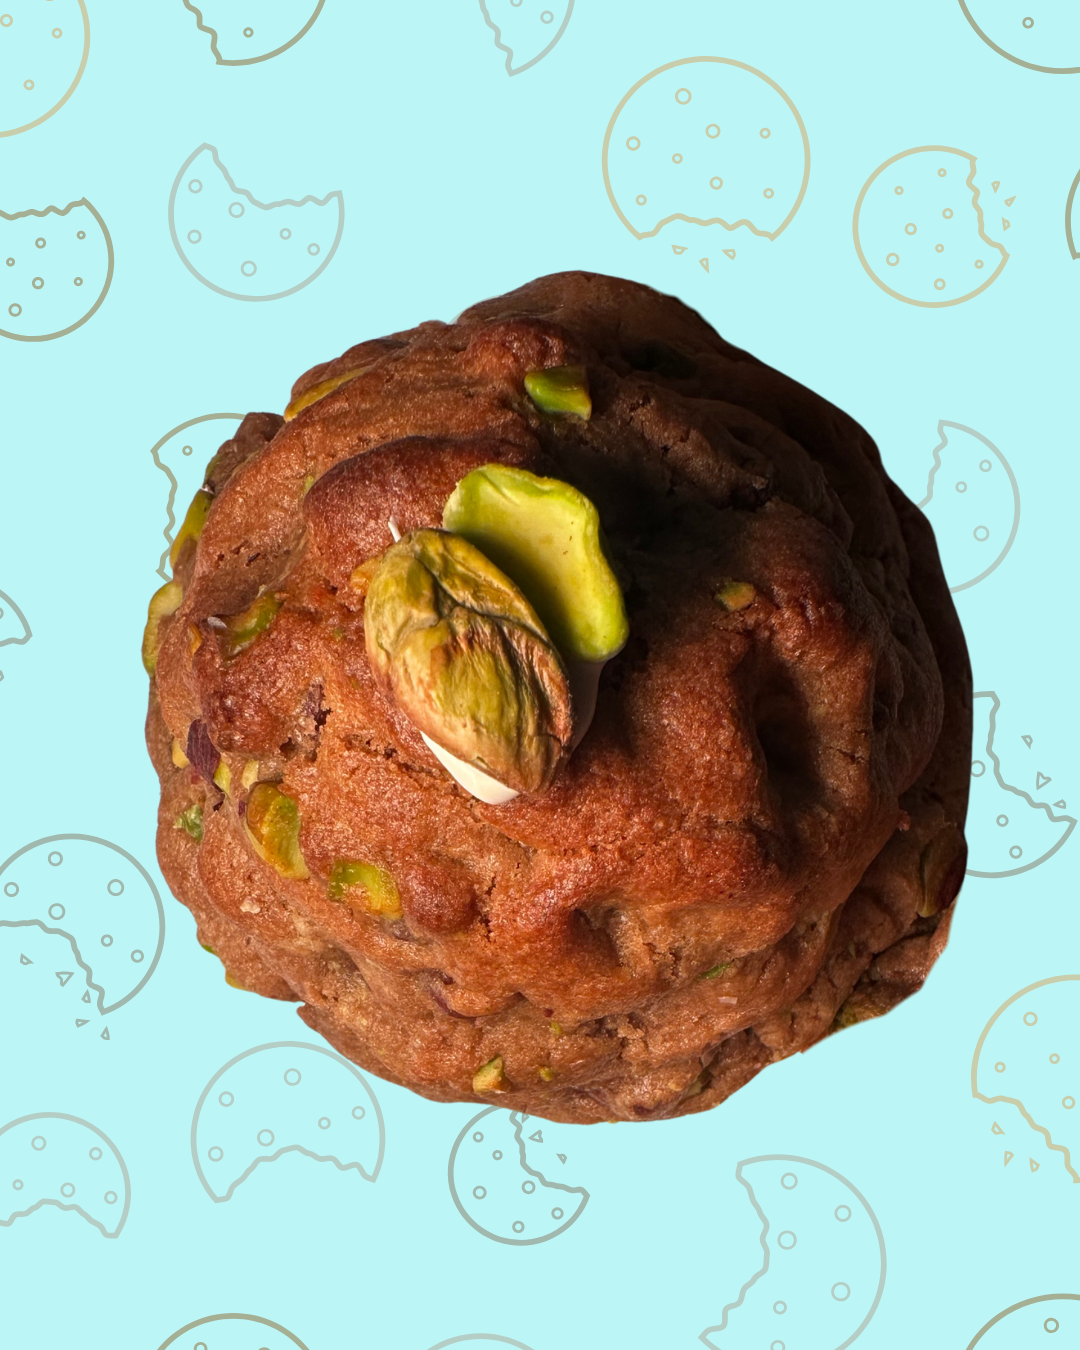
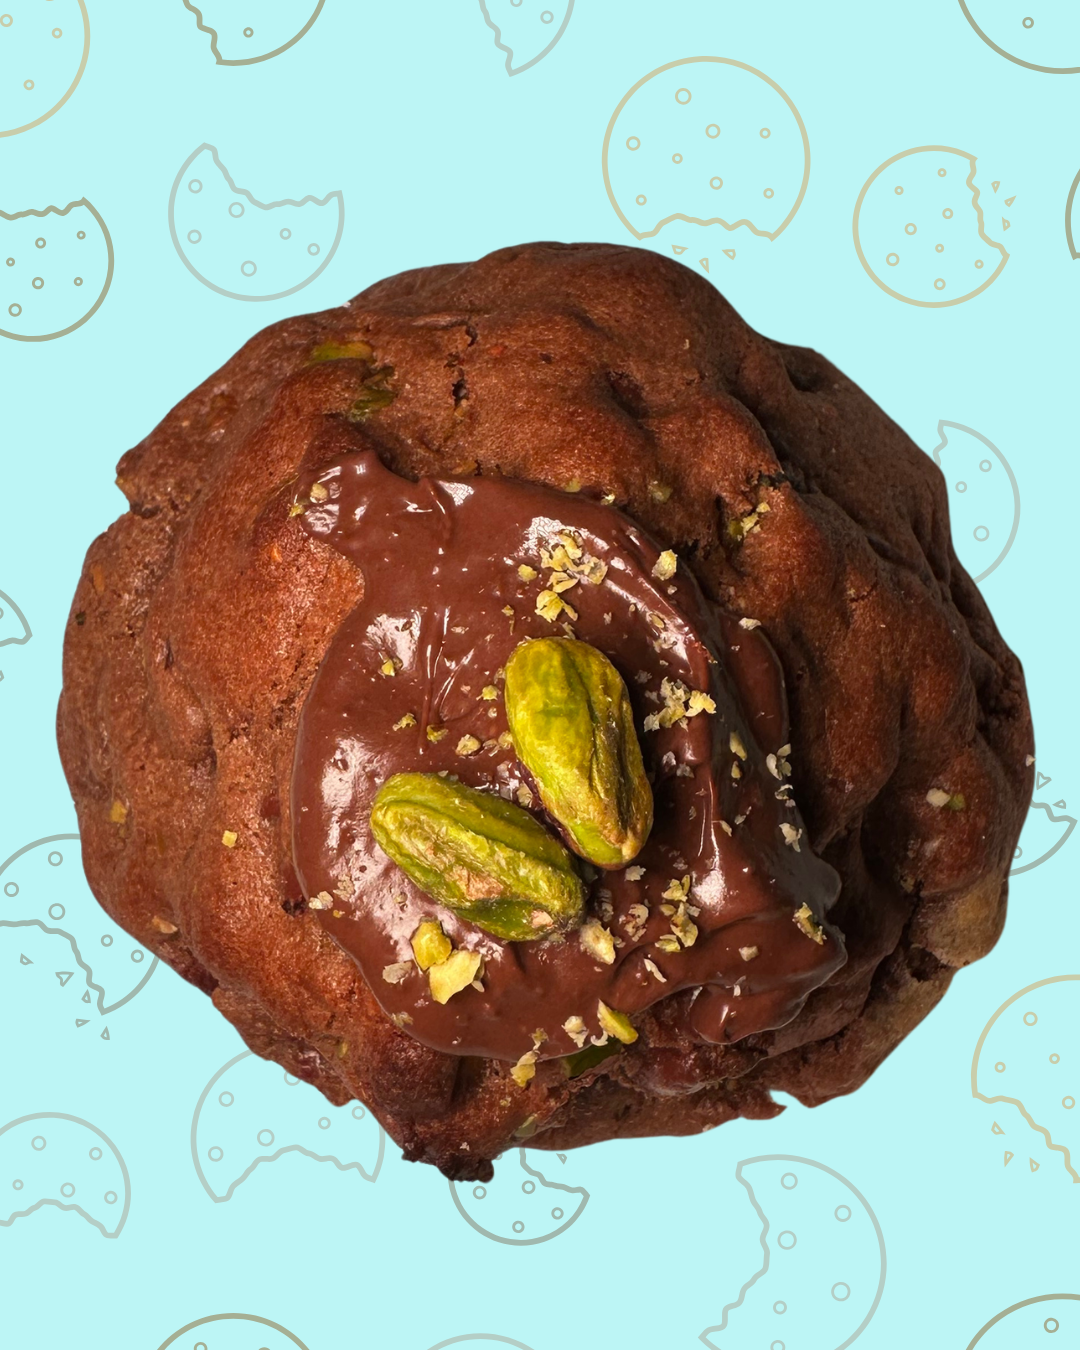
June Update
Added the June cookie menu and added the seasoned cookie images for some of the cookies from the May Update

diff --git a/products.js b/products.js
@@ -24,7 +24,7 @@
         new: true // Controlls if the item gets displayed in the Home Page's product carrousel
     },
     */
-const CART_VERSION = "v1.1.2";
+const CART_VERSION = "v1.1.3";
 
 // Constant containing all of the product details
 const productData = {
@@ -72,52 +72,38 @@ const productData = {
 
 
     //----------- Cookies -------------
-    "strawberry-samba_cookie":{
-        title: "Strawberry Samba Cookie",
+    "fudge-brownie_cookie":{
+        title: "Fudge Brownie Cookie",
         price: "$8.00",
-        info: "Vanilla cookie with chocolate chips, mixed with samba bits, filled with strawberry spread, topped with a strawberry spread dollip",
+        info: "Vanilla cookie with chocolate chips, mixed with brownie bits, filled with a brownie and Nutella, topped with a brownie",
         ingredients: "General Ingredients: Flour, Sugar, Brown Sugar, Eggs, Butter, Baking Powder, Baking Soda, Corn Starch, Salt, Vanilla. Weight: 6oz+",
-        ongoingProductImg: "../images/cookies/strawberry-samba_cookie_bg_ongoing.png",
-        seasonedProductImg: "../images/cookies/strawberry-samba_cookie_bg_seasoned.png",
-        secondImg: "../images/cookies/strawberry-samba_cookie_bg.png",
-        ongoing: true,
+        ongoingProductImg: "../images/cookies/fudge-brownie_cookie_bg_ongoing.png",
+        seasonedProductImg: "../images/cookies/fudge-brownie_cookie_bg_seasoned.png",
+        secondImg: "../images/cookies/fudge-brownie_cookie_bg.png",
+        ongoing: true, // Controlls whether the item gets a price when the user clicks from the bakedGoods page and changes the background
         get mainImg() {
             return this.ongoing ? this.ongoingProductImg : this.seasonedProductImg;
         },
-        new: true
+        new: true // Controlls if the item gets displayed in the Home Page's product carrousel
     },
-    "strawberry-matcha_cookie":{
-        title: "Strawberry Matcha Cookie",
+    "chocolate-dulce-de-leche_cookie":{
+        title: "Chocolate Dulce de Leche Cookie",
         price: "$8.00",
-        info: "Ceremonial grade Matcha cookie with white chocolate chips, filled with strawberry cream, topped with white chocolate drizzle and dried strawberry shavings",
+        info: "Chocolate cookie with chocolate chips, filled with dulce de leche, topped with dulce de leche and chocolate bits",
         ingredients: "General Ingredients: Flour, Sugar, Brown Sugar, Eggs, Butter, Baking Powder, Baking Soda, Corn Starch, Salt, Vanilla. Weight: 6oz+",
-        ongoingProductImg: "../images/cookies/strawberry-matcha_cookie_bg_ongoing.png",
-        seasonedProductImg: "../images/cookies/strawberry-matcha_cookie_bg_seasoned.png",
-        secondImg: "../images/cookies/strawberry-matcha_cookie_bg.png",
-        ongoing: true,
+        ongoingProductImg: "../images/cookies/chocolate-dulce-de-leche_cookie_bg_ongoing.png",
+        seasonedProductImg: "../images/cookies/chocolate-dulce-de-leche_cookie_bg_seasoned.png",
+        secondImg: "../images/cookies/chocolate-dulce-de-leche_cookie_bg.png",
+        ongoing: true, // Controlls whether the item gets a price when the user clicks from the bakedGoods page and changes the background
         get mainImg() {
             return this.ongoing ? this.ongoingProductImg : this.seasonedProductImg;
         },
-        new: true
-    },
-    "chocolate-brigadeiro_cookie":{
-        title: "Chocolate Brigadeiro Cookie",
-        price: "$8.00",
-        info: "Vanilla cookie with chocolate chips, filled with chocolate brigadeiro, rolled in chocolate sprinkles",
-        ingredients: "General Ingredients: Flour, Sugar, Brown Sugar, Eggs, Butter, Baking Powder, Baking Soda, Corn Starch, Salt, Vanilla. Weight: 6oz+",
-        ongoingProductImg: "../images/cookies/chocolate-brigadeiro_cookie_bg_ongoing.png",
-        seasonedProductImg: "../images/cookies/chocolate-brigadeiro_cookie_bg_seasoned.png",
-        secondImg: "../images/cookies/chocolate-brigadeiro_cookie_bg.png",
-        ongoing: true,
-        get mainImg() {
-            return this.ongoing ? this.ongoingProductImg : this.seasonedProductImg;
-        },
-        new: true
+        new: true // Controlls if the item gets displayed in the Home Page's product carrousel
     },
     "dubai-pistachio_cookie":{
         title: "Dubai Pistachio Cookie",
-        price: "$8.00",
-        info: "Vanilla cookie with chocolate chips, mixed with pistachios, filled with pistachio spread and crunchy kataifi, topped with chocolate and pistachios",
+        price: "$8.50",
+        info: "Chocolate cookie with chocolate chips, mixed with pistachios, filled with pistachio spread and crispy Kataifi, topped with pistachios",
         ingredients: "General Ingredients: Flour, Sugar, Brown Sugar, Eggs, Butter, Baking Powder, Baking Soda, Corn Starch, Salt, Vanilla. Weight: 6oz+",
         ongoingProductImg: "../images/cookies/dubai-pistachio_cookie_bg_ongoing.png",
         seasonedProductImg: "../images/cookies/dubai-pistachio_cookie_bg_seasoned.png",
@@ -128,50 +114,8 @@ const productData = {
         },
         new: true // Controlls if the item gets displayed in the Home Page's product carrousel
     },
-    "guava-dulce-de-leche_cookie":{
-        title: "Guava Dulce De Leche Cookie",
-        price: "$7.00",
-        info: "Vanilla cookie mixed with white chocolate chips, filled with guava paste and dulce de leche",
-        ingredients: "General Ingredients: Flour, Sugar, Brown Sugar, Eggs, Butter, Baking Powder, Baking Soda, Corn Starch, Salt, Vanilla. Weight: 6oz+",
-        ongoingProductImg: "../images/cookies/guava-dulce-de-leche_cookie_bg_ongoing.png",
-        seasonedProductImg: "../images/cookies/guava-dulce-de-leche_cookie_bg_seasoned.png",
-        secondImg: "../images/cookies/guava-dulce-de-leche_cookie_bg.png",
-        ongoing: true,
-        get mainImg() {
-            return this.ongoing ? this.ongoingProductImg : this.seasonedProductImg;
-        },
-        new: true
-    },
-    "nutella-smores_cookie":{
-        title: "Nutella S'mores Cookie",
-        price: "$8.00",
-        info: "Vanilla cookie with chocolate chips, mixed with graham cracker bits, filled with Nutella, topped with a medium torched marshmallow and Hershey square",
-        ingredients: "General Ingredients: Flour, Sugar, Brown Sugar, Eggs, Butter, Baking Powder, Baking Soda, Corn Starch, Salt, Vanilla. Weight: 6oz+",
-        ongoingProductImg: "../images/cookies/nutella-smores_cookie_bg_ongoing.png",
-        seasonedProductImg: "../images/cookies/nutella-smores_cookie_bg_seasoned.png",
-        secondImg: "../images/cookies/nutella-smores_cookie_bg.png",
-        ongoing: true,
-        get mainImg() {
-            return this.ongoing ? this.ongoingProductImg : this.seasonedProductImg;
-        },
-        new: true
-    },
-    "biscoreo_cookie":{
-        title: "Biscoreo Cookie",
-        price: "$8.00",
-        info: "Vanilla cookie with chocolate chips, mixed with Biscoff and Oreo cookie bits, filled with cookie butter, topped with half a Biscoff cookie",
-        ingredients: "General Ingredients: Flour, Sugar, Brown Sugar, Eggs, Butter, Baking Powder, Baking Soda, Corn Starch, Salt, Vanilla. Weight: 6oz+",
-        ongoingProductImg: "../images/cookies/biscoreo-cookie_bg_ongoing.png",
-        seasonedProductImg: "../images/cookies/biscoreo-cookie_bg_seasoned.png",
-        secondImg: "../images/cookies/biscoreo-cookie_bg.png",
-        ongoing: true,
-        get mainImg() {
-            return this.ongoing ? this.ongoingProductImg : this.seasonedProductImg;
-        },
-        new: true
-    },
     "chocolate-chip_cookie":{
-        title: "Chocolate Chip Cookie",
+        title: "Classic Chocolate Chip Cookie",
         price: "$6.20",
         info: "Chocolate chip cookie topped with sea salt",
         ingredients: "General Ingredients: Flour, Sugar, Brown Sugar, Eggs, Butter, Baking Powder, Baking Soda, Corn Starch, Salt, Vanilla. Weight: 6oz+",
@@ -183,6 +127,146 @@ const productData = {
             return this.ongoing ? this.ongoingProductImg : this.seasonedProductImg;
         },
         new: true
+    },
+    "nutella-biscuit_cookie":{
+        title: "Nutella Biscuit Cookie",
+        price: "$8.00",
+        info: "Half vanilla, half chocolate cookie with chocolate chips, filled with Nutella, topped with a Nutella Biscuit",
+        ingredients: "General Ingredients: Flour, Sugar, Brown Sugar, Eggs, Butter, Baking Powder, Baking Soda, Corn Starch, Salt, Vanilla. Weight: 6oz+",
+        ongoingProductImg: "../images/cookies/nutella-biscuit_cookie_bg_ongoing.png",
+        seasonedProductImg: "../images/cookies/nutella-biscuit_cookie_bg_seasoned.png",
+        secondImg: "../images/cookies/nutella-biscuit_cookie_bg.png",
+        ongoing: true, // Controlls whether the item gets a price when the user clicks from the bakedGoods page and changes the background
+        get mainImg() {
+            return this.ongoing ? this.ongoingProductImg : this.seasonedProductImg;
+        },
+        new: true // Controlls if the item gets displayed in the Home Page's product carrousel
+    },
+    "pb-and-j-toast_cookie":{
+        title: "PB&J Toast Cookie",
+        price: "$8.00",
+        info: "Vanilla cookie with white chocolate chips, filled with peanut butter and raspberry jelly, rolled in buttered sourdough crumbs, topped with a white chocolate square",
+        ingredients: "General Ingredients: Flour, Sugar, Brown Sugar, Eggs, Butter, Baking Powder, Baking Soda, Corn Starch, Salt, Vanilla. Weight: 6oz+",
+        ongoingProductImg: "../images/cookies/pb-and-j-toast_cookie_bg_ongoing.png",
+        seasonedProductImg: "../images/cookies/pb-and-j-toast_cookie_bg_seasoned.png",
+        secondImg: "../images/cookies/pb-and-j-toast_cookie_bg.png",
+        ongoing: true, // Controlls whether the item gets a price when the user clicks from the bakedGoods page and changes the background
+        get mainImg() {
+            return this.ongoing ? this.ongoingProductImg : this.seasonedProductImg;
+        },
+        new: true // Controlls if the item gets displayed in the Home Page's product carrousel
+    },
+    "salted-caramel-pretzel_cookie":{
+        title: "Salted Caramel Pretzel Cookie",
+        price: "$8.00",
+        info: "anilla cookie with chocolate chips, mixed with pretzel pieces and caramel pearls, filled with caramel, topped with chocolate, sea salt, and a pretzel",
+        ingredients: "General Ingredients: Flour, Sugar, Brown Sugar, Eggs, Butter, Baking Powder, Baking Soda, Corn Starch, Salt, Vanilla. Weight: 6oz+",
+        ongoingProductImg: "../images/cookies/salted-caramel-pretzel_cookie_bg_ongoing.png",
+        seasonedProductImg: "../images/cookies/salted-caramel-pretzel_cookie_bg_seasoned.png",
+        secondImg: "../images/cookies/salted-caramel-pretzel_cookie_bg.png",
+        ongoing: true, // Controlls whether the item gets a price when the user clicks from the bakedGoods page and changes the background
+        get mainImg() {
+            return this.ongoing ? this.ongoingProductImg : this.seasonedProductImg;
+        },
+        new: true // Controlls if the item gets displayed in the Home Page's product carrousel
+    },
+    "raffaello-coconut_cookie":{
+        title: "Raffaello Coconut Cookie",
+        price: "$8.00",
+        info: "Vanilla cookie with white chocolate chips, mixed with almonds and coconut flakes, filled with a Raffaello and white chocolate, dipped in white chocolate and coconut flakes",
+        ingredients: "General Ingredients: Flour, Sugar, Brown Sugar, Eggs, Butter, Baking Powder, Baking Soda, Corn Starch, Salt, Vanilla. Weight: 6oz+",
+        ongoingProductImg: "../images/cookies/raffaello-coconut_cookie_bg_ongoing.png",
+        seasonedProductImg: "../images/cookies/raffaello-coconut_cookie_bg_seasoned.png",
+        secondImg: "../images/cookies/raffaello-coconut_cookie_bg.png",
+        ongoing: true, // Controlls whether the item gets a price when the user clicks from the bakedGoods page and changes the background
+        get mainImg() {
+            return this.ongoing ? this.ongoingProductImg : this.seasonedProductImg;
+        },
+        new: true // Controlls if the item gets displayed in the Home Page's product carrousel
+    },
+    "strawberry-samba_cookie":{
+        title: "Strawberry Samba Cookie",
+        price: "$8.00",
+        info: "Vanilla cookie with chocolate chips, mixed with samba bits, filled with strawberry spread, topped with a strawberry spread dollip",
+        ingredients: "General Ingredients: Flour, Sugar, Brown Sugar, Eggs, Butter, Baking Powder, Baking Soda, Corn Starch, Salt, Vanilla. Weight: 6oz+",
+        ongoingProductImg: "../images/cookies/strawberry-samba_cookie_bg_ongoing.png",
+        seasonedProductImg: "../images/cookies/strawberry-samba_cookie_bg_seasoned.png",
+        secondImg: "../images/cookies/strawberry-samba_cookie_bg.png",
+        ongoing: false,
+        get mainImg() {
+            return this.ongoing ? this.ongoingProductImg : this.seasonedProductImg;
+        },
+        new: false
+    },
+    "strawberry-matcha_cookie":{
+        title: "Strawberry Matcha Cookie",
+        price: "$8.00",
+        info: "Ceremonial grade Matcha cookie with white chocolate chips, filled with strawberry cream, topped with white chocolate drizzle and dried strawberry shavings",
+        ingredients: "General Ingredients: Flour, Sugar, Brown Sugar, Eggs, Butter, Baking Powder, Baking Soda, Corn Starch, Salt, Vanilla. Weight: 6oz+",
+        ongoingProductImg: "../images/cookies/strawberry-matcha_cookie_bg_ongoing.png",
+        seasonedProductImg: "../images/cookies/strawberry-matcha_cookie_bg_seasoned.png",
+        secondImg: "../images/cookies/strawberry-matcha_cookie_bg.png",
+        ongoing: false,
+        get mainImg() {
+            return this.ongoing ? this.ongoingProductImg : this.seasonedProductImg;
+        },
+        new: false
+    },
+    "chocolate-brigadeiro_cookie":{
+        title: "Chocolate Brigadeiro Cookie",
+        price: "$8.00",
+        info: "Vanilla cookie with chocolate chips, filled with chocolate brigadeiro, rolled in chocolate sprinkles",
+        ingredients: "General Ingredients: Flour, Sugar, Brown Sugar, Eggs, Butter, Baking Powder, Baking Soda, Corn Starch, Salt, Vanilla. Weight: 6oz+",
+        ongoingProductImg: "../images/cookies/chocolate-brigadeiro_cookie_bg_ongoing.png",
+        seasonedProductImg: "../images/cookies/chocolate-brigadeiro_cookie_bg_seasoned.png",
+        secondImg: "../images/cookies/chocolate-brigadeiro_cookie_bg.png",
+        ongoing: false,
+        get mainImg() {
+            return this.ongoing ? this.ongoingProductImg : this.seasonedProductImg;
+        },
+        new: false
+    },
+    "guava-dulce-de-leche_cookie":{
+        title: "Guava Dulce De Leche Cookie",
+        price: "$7.00",
+        info: "Vanilla cookie mixed with white chocolate chips, filled with guava paste and dulce de leche",
+        ingredients: "General Ingredients: Flour, Sugar, Brown Sugar, Eggs, Butter, Baking Powder, Baking Soda, Corn Starch, Salt, Vanilla. Weight: 6oz+",
+        ongoingProductImg: "../images/cookies/guava-dulce-de-leche_cookie_bg_ongoing.png",
+        seasonedProductImg: "../images/cookies/guava-dulce-de-leche_cookie_bg_seasoned.png",
+        secondImg: "../images/cookies/guava-dulce-de-leche_cookie_bg.png",
+        ongoing: false,
+        get mainImg() {
+            return this.ongoing ? this.ongoingProductImg : this.seasonedProductImg;
+        },
+        new: false
+    },
+    "nutella-smores_cookie":{
+        title: "Nutella S'mores Cookie",
+        price: "$8.00",
+        info: "Vanilla cookie with chocolate chips, mixed with graham cracker bits, filled with Nutella, topped with a medium torched marshmallow and Hershey square",
+        ingredients: "General Ingredients: Flour, Sugar, Brown Sugar, Eggs, Butter, Baking Powder, Baking Soda, Corn Starch, Salt, Vanilla. Weight: 6oz+",
+        ongoingProductImg: "../images/cookies/nutella-smores_cookie_bg_ongoing.png",
+        seasonedProductImg: "../images/cookies/nutella-smores_cookie_bg_seasoned.png",
+        secondImg: "../images/cookies/nutella-smores_cookie_bg.png",
+        ongoing: false,
+        get mainImg() {
+            return this.ongoing ? this.ongoingProductImg : this.seasonedProductImg;
+        },
+        new: false
+    },
+    "biscoreo_cookie":{
+        title: "Biscoreo Cookie",
+        price: "$8.00",
+        info: "Vanilla cookie with chocolate chips, mixed with Biscoff and Oreo cookie bits, filled with cookie butter, topped with half a Biscoff cookie",
+        ingredients: "General Ingredients: Flour, Sugar, Brown Sugar, Eggs, Butter, Baking Powder, Baking Soda, Corn Starch, Salt, Vanilla. Weight: 6oz+",
+        ongoingProductImg: "../images/cookies/biscoreo-cookie_bg_ongoing.png",
+        seasonedProductImg: "../images/cookies/biscoreo-cookie_bg_seasoned.png",
+        secondImg: "../images/cookies/biscoreo-cookie_bg.png",
+        ongoing: false,
+        get mainImg() {
+            return this.ongoing ? this.ongoingProductImg : this.seasonedProductImg;
+        },
+        new: false
     },
     "kinder-bueno_cookie":{
         title: "Kinder Bueno Cookie",
@@ -633,6 +717,7 @@ const productData = {
         new: false
     },
 
+
     //----------- Other Treats -------------
     "banana-muffins_other-treats":{
         title: "Banana Muffins - 6 Pack",
@@ -680,6 +765,17 @@ const productData = {
         ongoing: true,
         new: false
     },
+    "3-tier-c-cake_other-treats":{
+        title: "3-Tier Cookie Cake",
+        price: "$45.00",
+        info: "Chocolate chip cookie cake, layered together by Nutella, topped with white vegan buttercream and rainbow sprinkles. Includes 6 cake toppers and a bear candle",
+        ingredients: 'General Ingredients: Flour, Sugar, Brown Sugar, Eggs, Butter, Baking Powder, Baking Soda, Corn Starch, Salt, Vanilla. Weight: 1,300 grams',
+        mainImg: "../images/otherTreats/3-tier-c-cake_other-treats_bg.png",
+        secondImg: "../images/otherTreats/3-tier-c-cake_other-treats_og_bg.png",
+        ongoing: true,
+        new: true
+    },
+
     //----------- Special Gifts -------------
     "gift-voucher_special-gifts":{
         title: "Gift Voucher",
